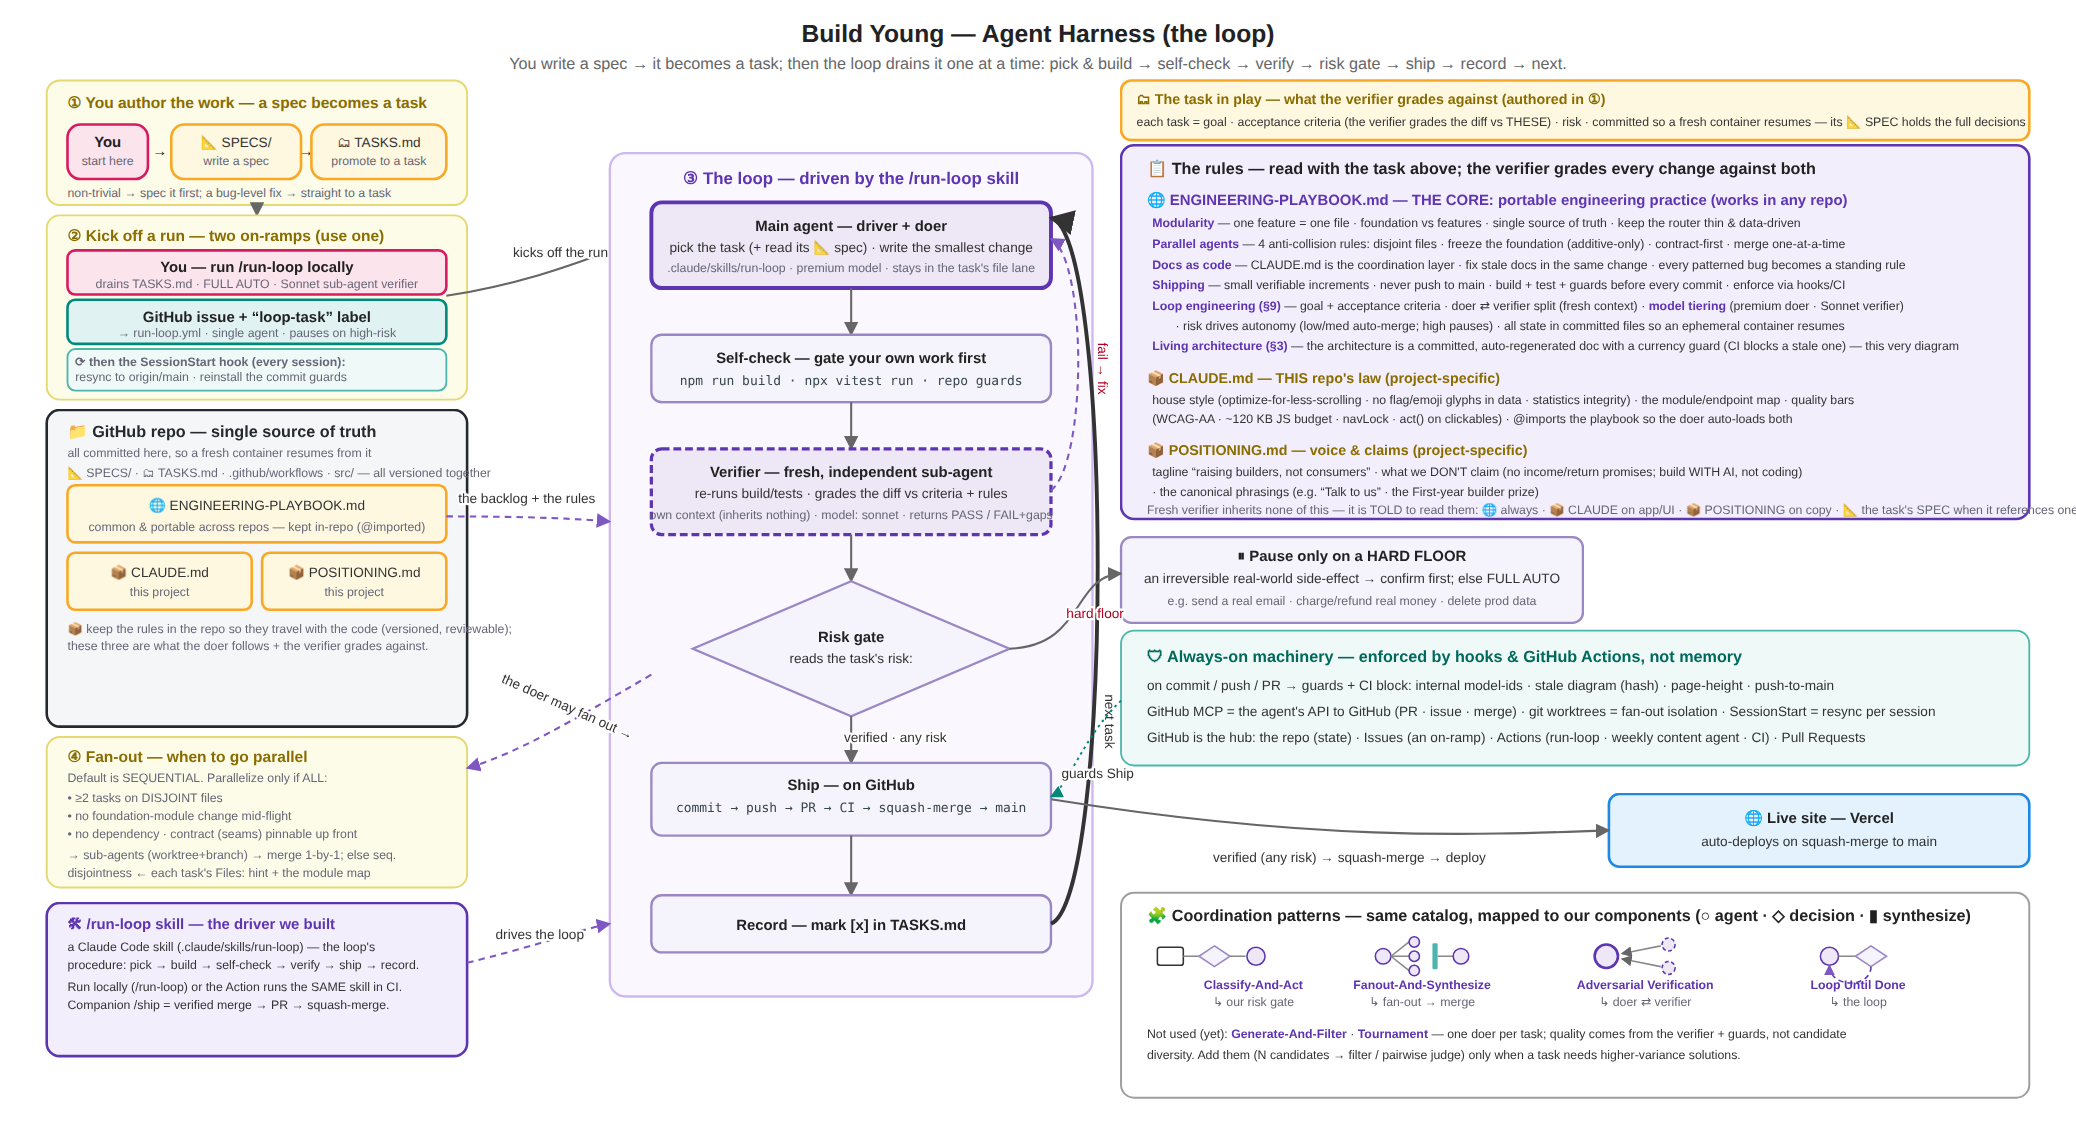
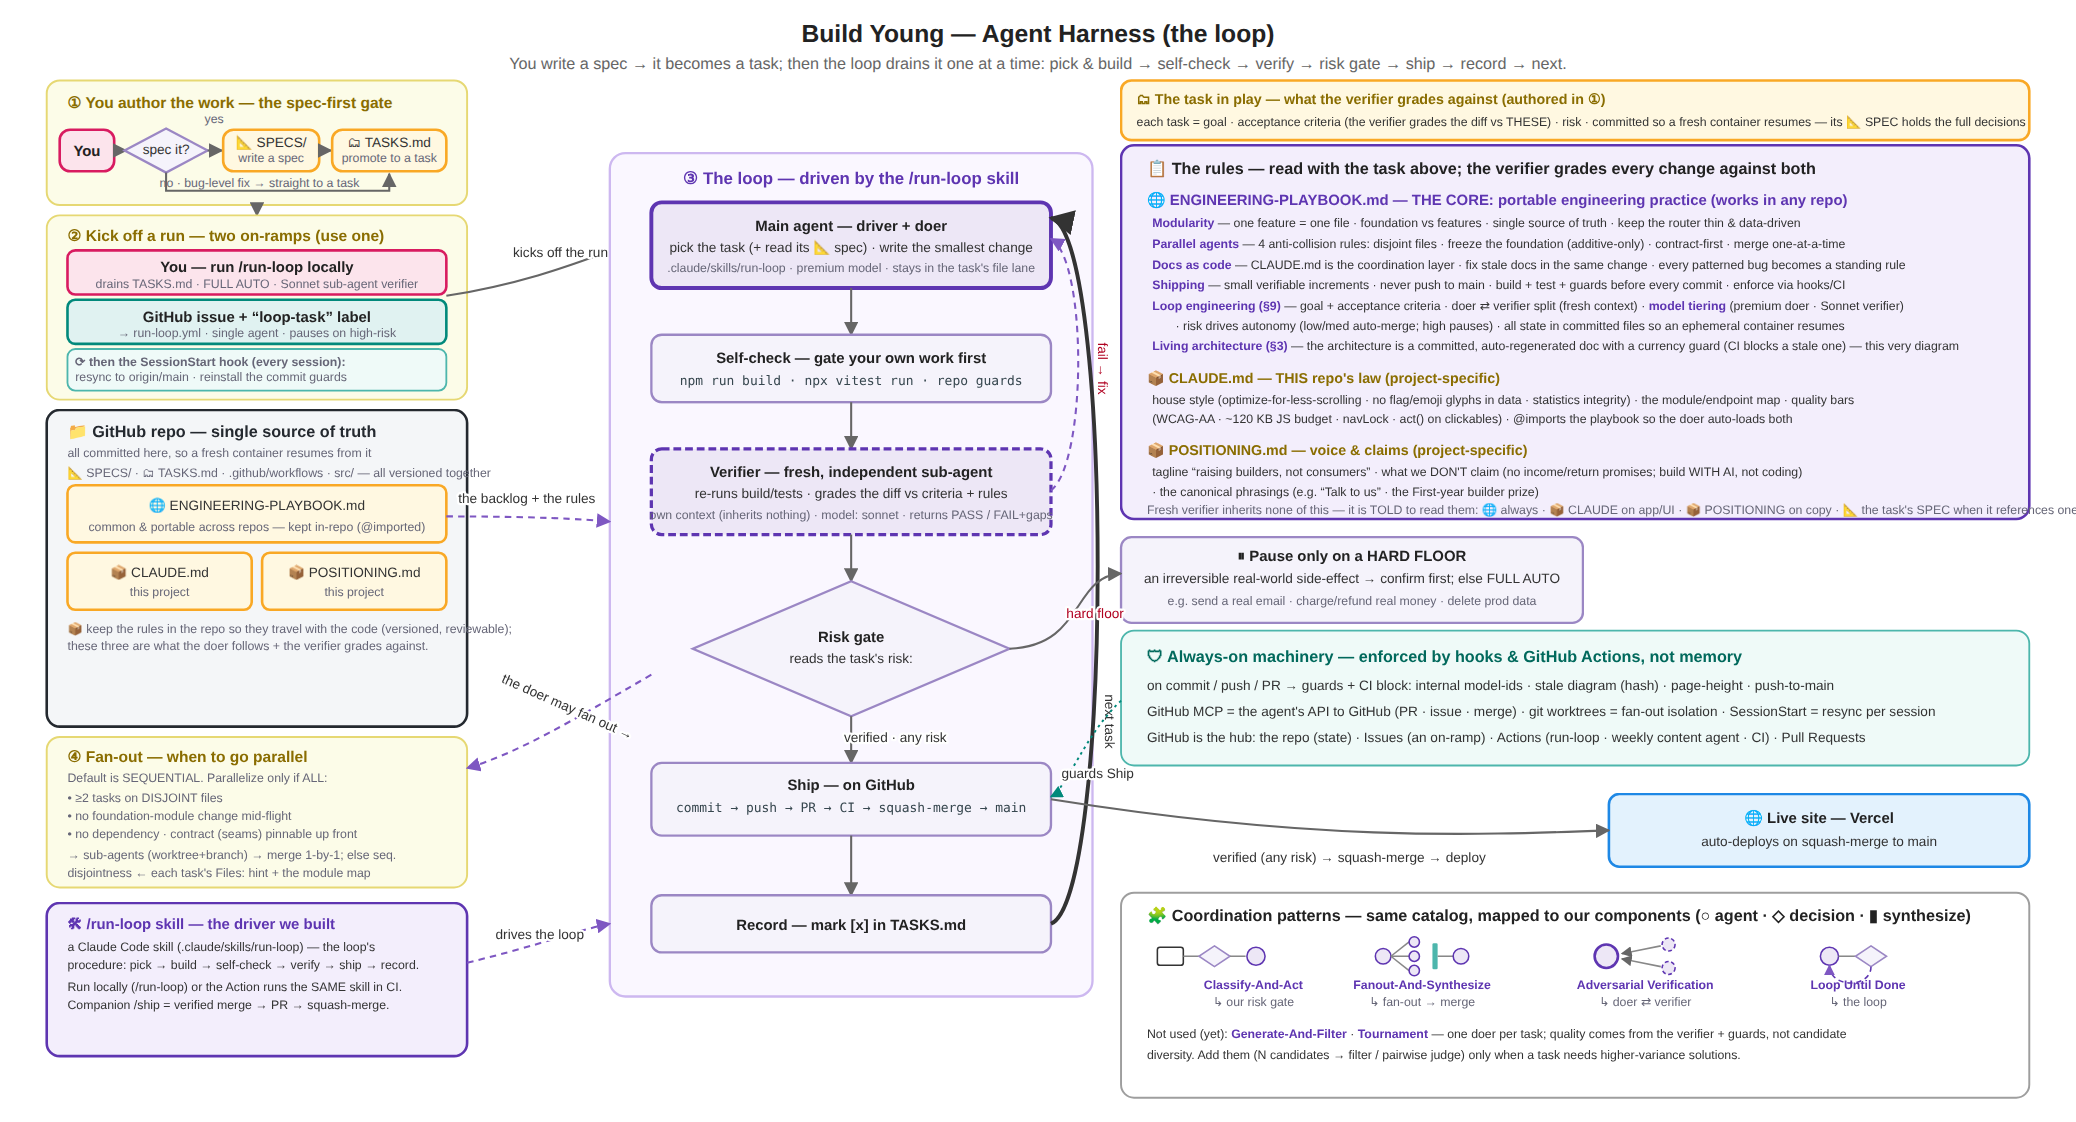
docs(arch): show the spec-first decision as a node in step ①
Per the founder — the spec-first gate is a key detail of the harness, so make it an explicit decision
node, not a footnote. Step ① now reads: You → ◇ "spec it?" → (yes) 📐 SPECS/ → 🗂 TASKS.md, with a
"no · bug-level fix → straight to a task" branch looping straight to TASKS.md (skip the spec). Caption
updated to say YOU make the call at authoring time (borderline → you decide; an issue-triggered run
infers it conservatively). Re-rendered; unfold + currency guard verified.

Claude-Session: https://claude.ai/code/session_01XbtfKaB3HHXtnMHsqh8TMP

Changed region(s): [[0.0308, 0.0624, 0.2158, 0.1872]]

diff --git a/docs/architecture/build-young-harness.html b/docs/architecture/build-young-harness.html
@@ -124,19 +124,23 @@
   <!-- STEP 1 — ① author -->
   <g class="step" data-step="1">
     <rect class="grp" x="36" y="62" width="324" height="96" rx="10"/>
-    <text class="grpt" x="52" y="83">① You author the work — a spec becomes a task</text>
-    <rect class="human" x="52" y="96" width="62" height="42" rx="10"/>
-    <text class="nlb" x="83" y="113" text-anchor="middle">You</text>
-    <text class="sm" x="83" y="127" text-anchor="middle">start here</text>
-    <text class="nlb" x="123" y="120" text-anchor="middle">→</text>
-    <rect class="state" x="132" y="96" width="100" height="42" rx="10"/>
-    <text class="nl" x="182" y="113" text-anchor="middle">📐 SPECS/</text>
-    <text class="sm" x="182" y="127" text-anchor="middle">write a spec</text>
-    <text class="nlb" x="236" y="120" text-anchor="middle">→</text>
-    <rect class="state" x="240" y="96" width="104" height="42" rx="10"/>
-    <text class="nl" x="292" y="113" text-anchor="middle">🗂 TASKS.md</text>
-    <text class="sm" x="292" y="127" text-anchor="middle">promote to a task</text>
-    <text class="sm" x="52" y="152">non-trivial → spec it first; a bug-level fix → straight to a task</text>
+    <text class="grpt" x="52" y="83">① You author the work — the spec-first gate</text>
+    <rect class="human" x="46" y="100" width="42" height="32" rx="8"/>
+    <text class="nlb" x="67" y="120" text-anchor="middle">You</text>
+    <path class="edge" d="M88,116 L97,116" marker-end="url(#arr)"/>
+    <polygon class="plain" points="128,99 160,116 128,133 96,116"/>
+    <text class="nl" x="128" y="119" text-anchor="middle">spec it?</text>
+    <path class="edge" d="M160,116 L171,116" marker-end="url(#arr)"/>
+    <text class="sm" x="165" y="95" text-anchor="middle">yes</text>
+    <rect class="state" x="172" y="100" width="74" height="32" rx="8"/>
+    <text class="nl" x="209" y="113" text-anchor="middle">📐 SPECS/</text>
+    <text class="sm" x="209" y="125" text-anchor="middle">write a spec</text>
+    <path class="edge" d="M246,116 L255,116" marker-end="url(#arr)"/>
+    <rect class="state" x="256" y="100" width="88" height="32" rx="8"/>
+    <text class="nl" x="300" y="113" text-anchor="middle">🗂 TASKS.md</text>
+    <text class="sm" x="300" y="125" text-anchor="middle">promote to a task</text>
+    <path class="edge" d="M128,133 L128,147 L300,147 L300,134" marker-end="url(#arr)"/>
+    <text class="sm" x="200" y="144" text-anchor="middle">no · bug-level fix → straight to a task</text>
   </g>
 
   <!-- STEP 2 — ② kick off -->
@@ -369,7 +373,7 @@
 <script>
   var CAPTIONS = [
     "",
-    "<b>① You author the work.</b> You write a one-page spec, then promote it to a task. Non-trivial work is specced first; a bug-level fix can go straight to a task.",
+    "<b>① You author the work — and YOU make the spec-first call.</b> Non-trivial / feature work → write a one-page 📐 spec, then promote it to a task. A bug-level fix → straight to a task (skip the spec). Borderline → you decide; an issue-triggered run just infers it conservatively.",
     "<b>② Kick off a run.</b> Two on-ramps: locally (<code>/run-loop</code> — full auto, with a Sonnet sub-agent as the verifier), or a labeled GitHub issue (a single agent that pauses on high-risk). The SessionStart hook resyncs each session.",
     "<b>③ The loop begins.</b> The Main agent (driver + doer) picks the task, reads its spec, and writes the smallest change — on the premium model, staying in the task's file lane.",
     "<b>Self-check.</b> It gates its own work first: build + tests + repo guards, fixing until green.",